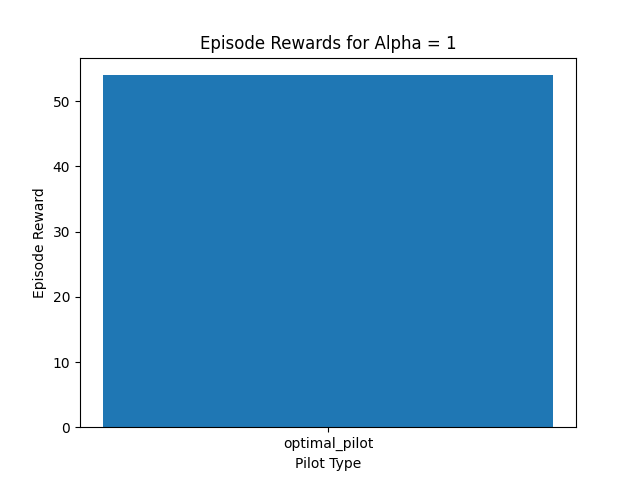
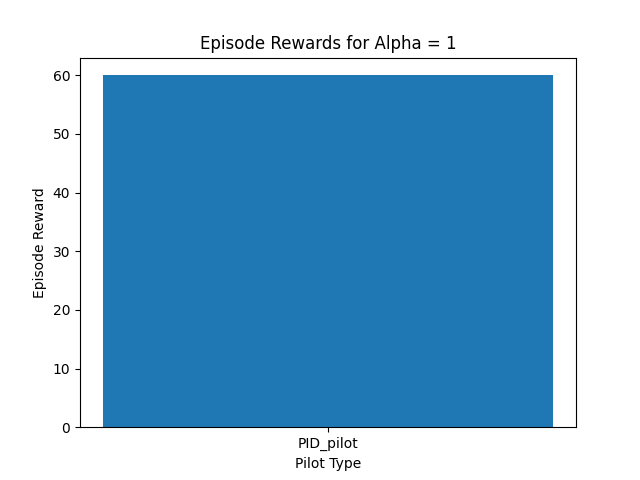
added Mlp model

diff --git a/src/haptic/__main__.py b/src/haptic/__main__.py
@@ -10,6 +10,7 @@ from gym.envs.box2d.car_racing import CarRacingShared
 from stable_baselines3.dqn_copilot.policies import (
     MultiInputPolicyCopilot,
     CnnPolicyCopilot,
+    MlpPolicyCopilot,
 )
 from stable_baselines3.dqn_copilot.dqn import DQNCopilot
 from stable_baselines3.common.callbacks import CallbackList
@@ -20,7 +21,7 @@ from haptic.callbacks.car_racing_callbacks import (
 from haptic.classic_control.pid_car_racing import pid, find_error
 
 # Env Params
-GRAYSCALE = 0  # 0 for RGB, 1 for Grayscale
+GRAYSCALE = 1  # 0 for RGB, 1 for Grayscale
 SHOW_INFO_PANEL = 1  # 0 for no info panel, 1 for info panel
 DISCRITIZED_ACTIONS = "smooth_steering"  # n_actions = 11
 NUM_TRACKS = 1  # 1 for simple track, 2 for complex track
@@ -28,7 +29,7 @@ NUM_LANES = 1  # 1 for no lane changes, 2 for lane changes
 NUM_LANES_CHANGES = 4  # DO NOT CHANGE
 MAX_TIME_OUT = 2  # number of seconds out of track before episode ends
 FRAMES_PER_STATE = 4  # number of frames to stack for each state
-
+OBS_SPACE = "vector"  # "frames" or "dict" or "vector"
 # Pilot Params
 RANDOM_ACTION_PROB = (
     0.3  # probability of taking a random action if the pilot type is noisy
@@ -43,7 +44,7 @@ MAX_EPISODE_TIMESTEPS = 500  # number of timesteps per episode
 PILOT_TYPES = [
     "PID_pilot",
 ]  # ["none_pilot","laggy_pilot", "noisy_pilot", "optimal_pilot", "human_keyboard", "PID_pilot"]
-ALPHA_SCHEDULE = [0.8]  # [0.0,..., 0.5,..., 1.0]
+ALPHA_SCHEDULE = [1]  # [0.0,..., 0.5,..., 1.0]
 
 
 # Training Params
@@ -98,7 +99,7 @@ def main():
             pilot_type=f"{pilot_type}",
             random_action_prob=RANDOM_ACTION_PROB,
             laggy_pilot_freq=LAGGY_PILOT_FREQ,
-            obs_space="frames",
+            obs_space=OBS_SPACE,
             auto_render=False,
             scenario="train",
         )
@@ -120,14 +121,14 @@ def main():
                 model.q_net_target.load_state_dict(state_dict)
             else:
                 model = DQNCopilot(
-                    CnnPolicyCopilot,
+                    MultiInputPolicyCopilot,
                     env,
                     buffer_size=BUFFER_SIZE,
                     verbose=1,
                     device="cuda",
                 )
 
-        elif policy_type == "Cnn":
+        elif policy_type == "CNN":
             if LOAD_MODEL:
                 trained_model = DQNCopilot.load(MODEL_NAME)
                 state_dict = trained_model.q_net.state_dict()
@@ -141,8 +142,32 @@ def main():
                 model.q_net.load_state_dict(state_dict)
                 model.q_net_target.load_state_dict(state_dict)
             else:
+                print(f"\n\n {env.observation_space} \n\n")
                 model = DQNCopilot(
                     CnnPolicyCopilot,
+                    env,
+                    buffer_size=BUFFER_SIZE,
+                    verbose=1,
+                    device="cuda",
+                )
+
+        elif policy_type == "Mlp":
+            if LOAD_MODEL:
+                trained_model = DQNCopilot.load(MODEL_NAME)
+                state_dict = trained_model.q_net.state_dict()
+                model = DQNCopilot(
+                    MlpPolicyCopilot,
+                    env,
+                    buffer_size=BUFFER_SIZE,
+                    verbose=1,
+                    device="cuda",
+                )
+                model.q_net.load_state_dict(state_dict)
+                model.q_net_target.load_state_dict(state_dict)
+            else:
+                print(f"\n\n {env.observation_space} \n\n")
+                model = DQNCopilot(
+                    MlpPolicyCopilot,
                     env,
                     buffer_size=BUFFER_SIZE,
                     verbose=1,
@@ -285,7 +310,7 @@ def main():
                                 break
                     env.close()
 
-        elif sys.argv[2] == "Cnn":
+        elif sys.argv[2] == "CNN":
             for alpha in ALPHA_SCHEDULE:
                 file_path = "./src/haptic/alpha.txt"
                 with open(file_path, "w") as file:
@@ -305,7 +330,7 @@ def main():
                         pilot_type=f"{pilot_type}",
                         random_action_prob=RANDOM_ACTION_PROB,
                         laggy_pilot_freq=LAGGY_PILOT_FREQ,
-                        obs_space="frames",
+                        obs_space=OBS_SPACE,
                         display=f"copilot_alpha_{alpha}_{pilot_type}",
                     )
                     env = wrappers.Monitor(
@@ -349,7 +374,7 @@ def main():
                                 break
                     env.close()
 
-        elif sys.argv[2] == "PID":
+        elif sys.argv[2] == "Mlp":
             for alpha in ALPHA_SCHEDULE:
                 file_path = "./src/haptic/alpha.txt"
                 with open(file_path, "w") as file:
@@ -369,7 +394,7 @@ def main():
                         pilot_type=f"{pilot_type}",
                         random_action_prob=RANDOM_ACTION_PROB,
                         laggy_pilot_freq=LAGGY_PILOT_FREQ,
-                        obs_space="frames",
+                        obs_space=OBS_SPACE,
                         display=f"copilot_alpha_{alpha}_{pilot_type}",
                     )
                     env = wrappers.Monitor(
@@ -412,69 +437,6 @@ def main():
                                 ] = np.mean(episode_reward_list)
                                 break
                     env.close()
-            # for alpha in ALPHA_SCHEDULE:
-            #     for pilot_type in PILOT_TYPES:
-            #         env = CarRacingShared(
-            #             allow_reverse=False,
-            #             grayscale=GRAYSCALE,
-            #             show_info_panel=SHOW_INFO_PANEL,
-            #             discretize_actions=DISCRITIZED_ACTIONS,
-            #             num_tracks=NUM_TRACKS,
-            #             num_lanes=NUM_LANES,
-            #             num_lanes_changes=NUM_LANES_CHANGES,
-            #             max_time_out=MAX_TIME_OUT,
-            #             frames_per_state=FRAMES_PER_STATE,
-            #             pilot=f"{pilot_path}",
-            #             pilot_type=f"{pilot_type}",
-            #             random_action_prob=RANDOM_ACTION_PROB,
-            #             laggy_pilot_freq=LAGGY_PILOT_FREQ,
-            #             obs_space="frames",
-            #             display=f"PID: Kp = {Kp}, Ki = {Ki}, Kd = {Kd}",
-            #         )
-            #         env = wrappers.Monitor(
-            #             env,
-            #             f"./videos/PID_Kp={Kp}_Ki={Ki}_Kd={Kd}_video/",
-            #             force=True,
-            #         )
-            #         episode_timesteps = 0
-            #         done = False
-            #         episode_reward = 0
-            #         total_timesteps = 0
-            #         total_reward = 0
-            #         observation = env.reset()
-            #         previous_error = 0
-            #         for episode in range(NO_EPISODES):
-            #             while not done:
-            #                 episode_timesteps += 1
-            #                 total_timesteps += 1
-            #                 env.render()
-            #                 error = find_error(observation, previous_error)
-            #                 steering = pid(error, previous_error, Kp, Ki, Kd)
-            #                 steering = steering
-            #                 action = [steering, 0.3, 0.05]
-            #                 observation, reward, done, info = env.step(action)
-            #                 episode_reward += reward
-            #                 total_reward += reward
-            #                 previous_error = error
-            #                 if done:
-            #                     env.reset()
-            #                     done = False
-            #                 if episode_timesteps % MAX_EPISODE_TIMESTEPS == 0:
-            #                     episode_reward_list.append(episode_reward)
-            #                     episode_reward = 0
-            #                     episode_timesteps = 0
-            #                 if (
-            #                     total_timesteps % (MAX_EPISODE_TIMESTEPS * NO_EPISODES)
-            #                     == 0
-            #                 ):
-            #                     total_rewards[f"alpha_{alpha}"][
-            #                         f"{pilot_type}"
-            #                     ] = total_reward
-            #                     episode_rewards[f"alpha_{alpha}"][
-            #                         f"{pilot_type}"
-            #                     ] = np.mean(episode_reward_list)
-            #                     break
-            #         env.close()
 
         # Create a directory for saving charts if it doesn't exist
         chart_dir = "./charts"
